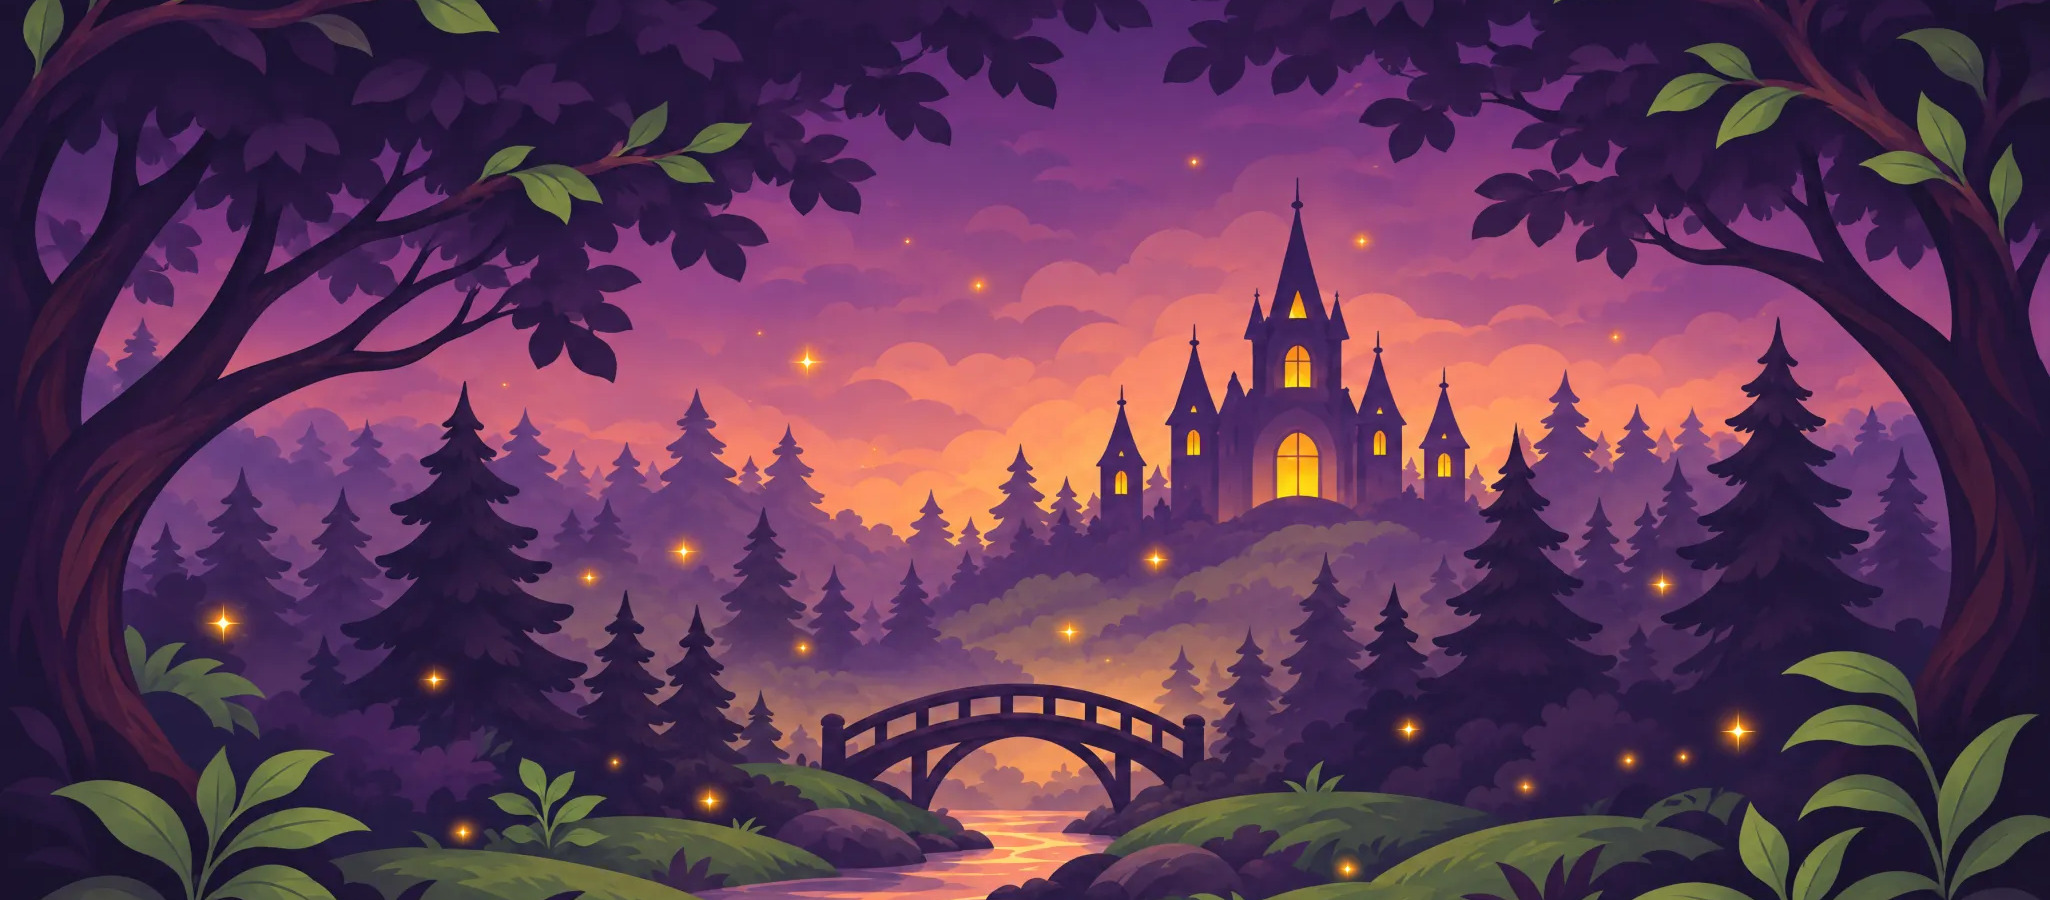
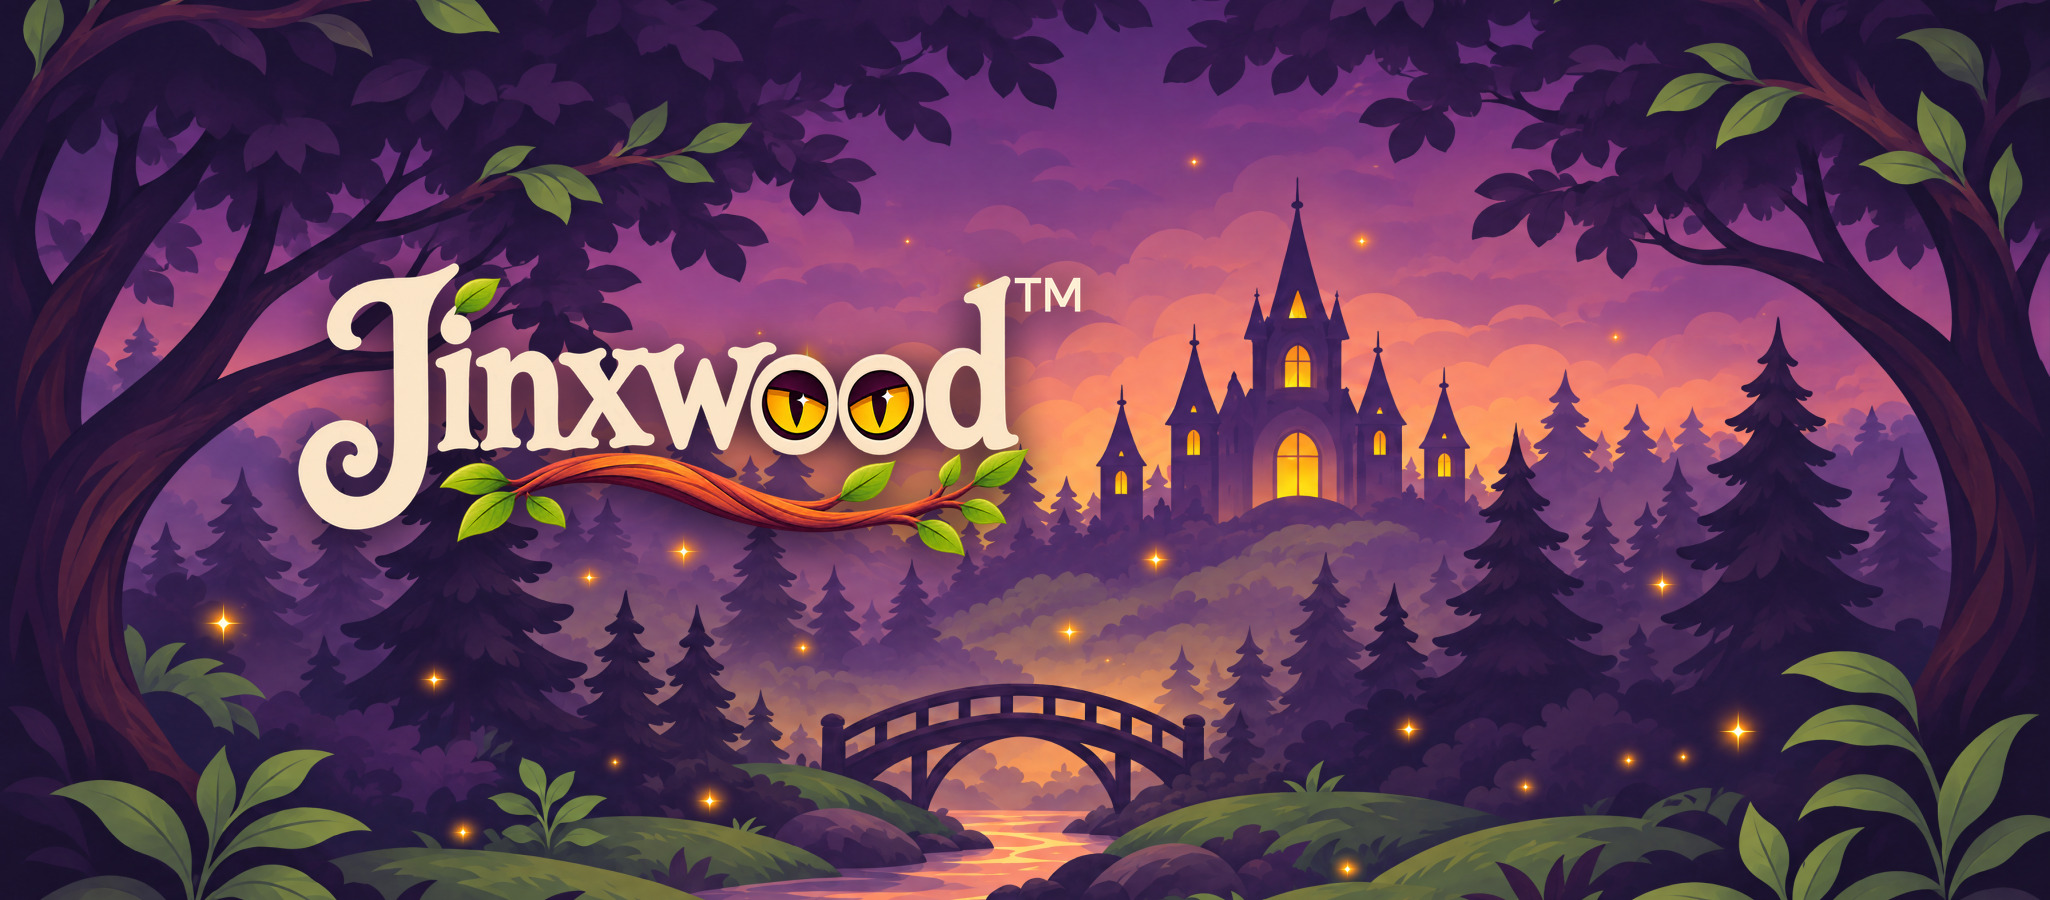
Generate the Facebook cover with the wordmark
The brand build now writes the Facebook page cover: the same view of the
forest art as before, with the wordmark on the left in the band every
screen shows, as on the YouTube banner. The banner and the cover share
the code that places the wordmark and its shadow.

The brand video moves into the masters as
jinx-in-the-twilight-forest.mp4.

diff --git a/brand/README.md b/brand/README.md
@@ -24,15 +24,15 @@ serves nothing from this folder directly.
   as the JPEGs the press page offers, also written by `npm run build:brand`.
   Two drawings of Jinx walking, `jinx.png` (flat) and `jinx-stylized.png`
   (shaded), sit there too, on transparent backgrounds; they are placed by
-  hand, and nothing is made from them.
+  hand, and nothing is made from them. So does the brand video,
+  `jinx-in-the-twilight-forest.mp4`, kept as made.
 - `youtube/`: the channel's profile picture, banner and video watermark are
   written by `npm run build:brand`. The numbered video thumbnails are made by
   hand.
-- `facebook/`, `play/`: the Facebook page's profile picture and the Google
-  Play developer icon are written by `npm run build:brand`; the cover and
-  header images are made by hand.
-
-- `Jinx in the Twilight Forest.mp4`: the brand video, kept here as made.
+- `facebook/`: the page's profile picture and its cover, the forest art with
+  the wordmark, are written by `npm run build:brand`.
+- `play/`: the Google Play developer icon is written by `npm run build:brand`;
+  the header image is made by hand.
 
 Everything else outside `source/` and `masters/` is uploaded by hand to the
 platform it is named for. Other videos, captions and earlier logo attempts are
